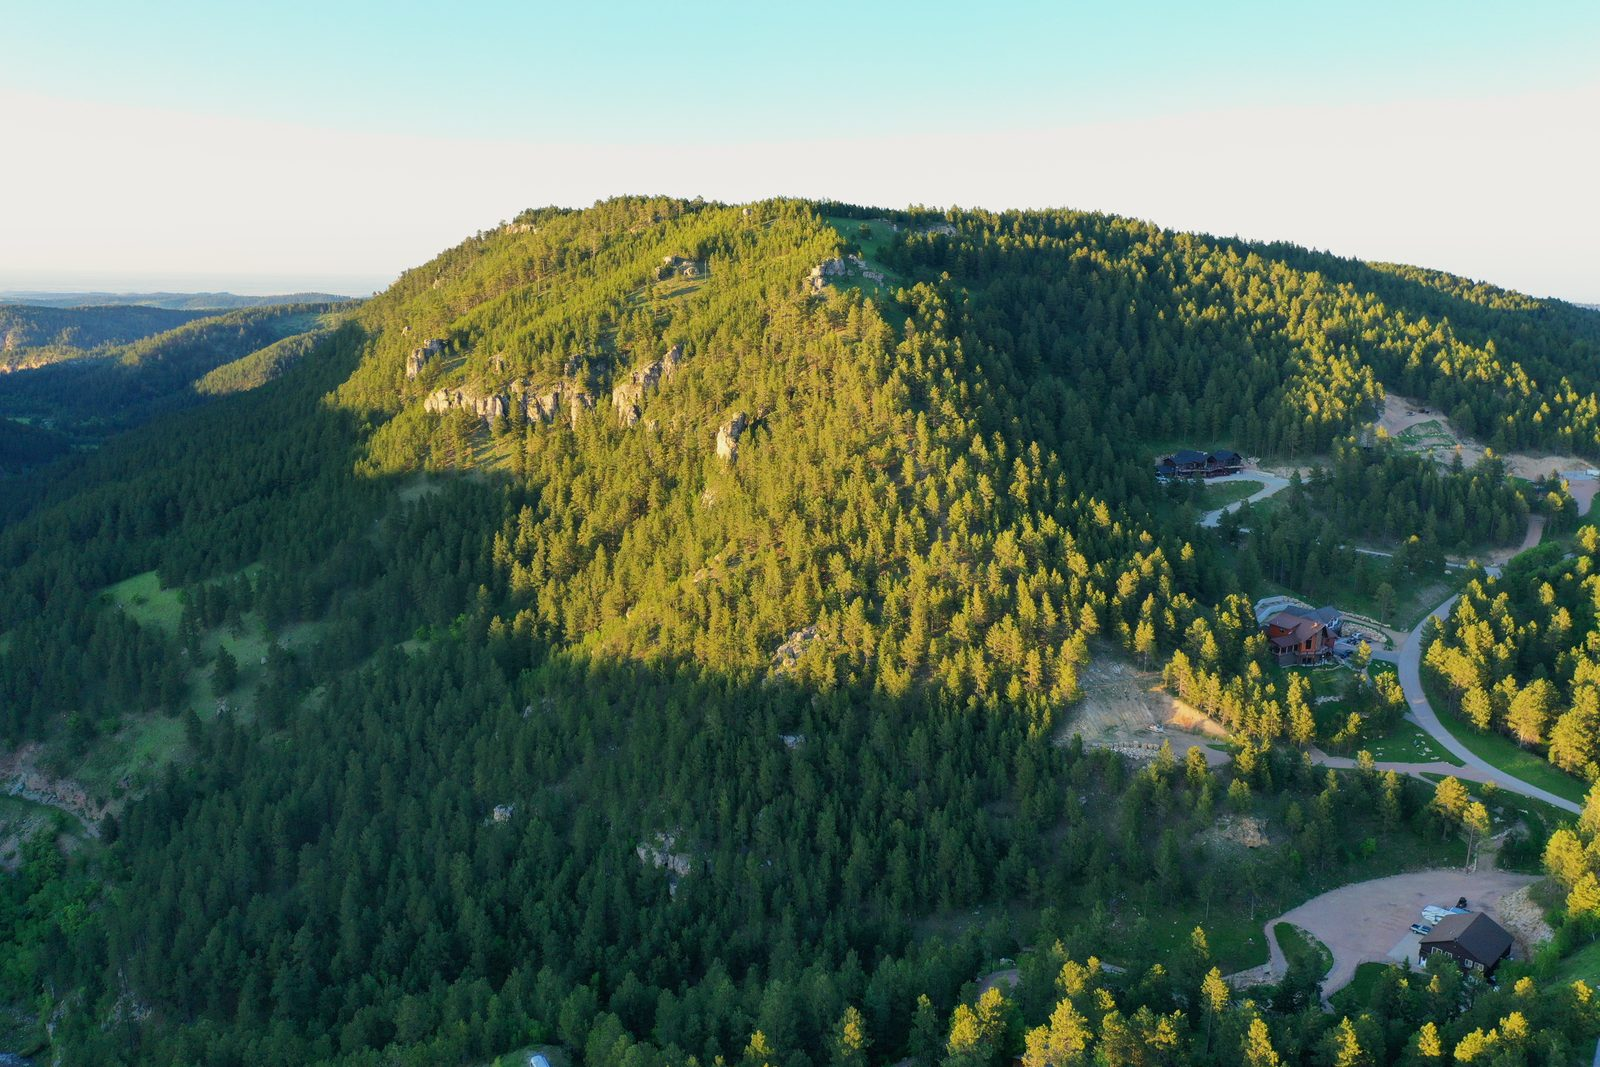
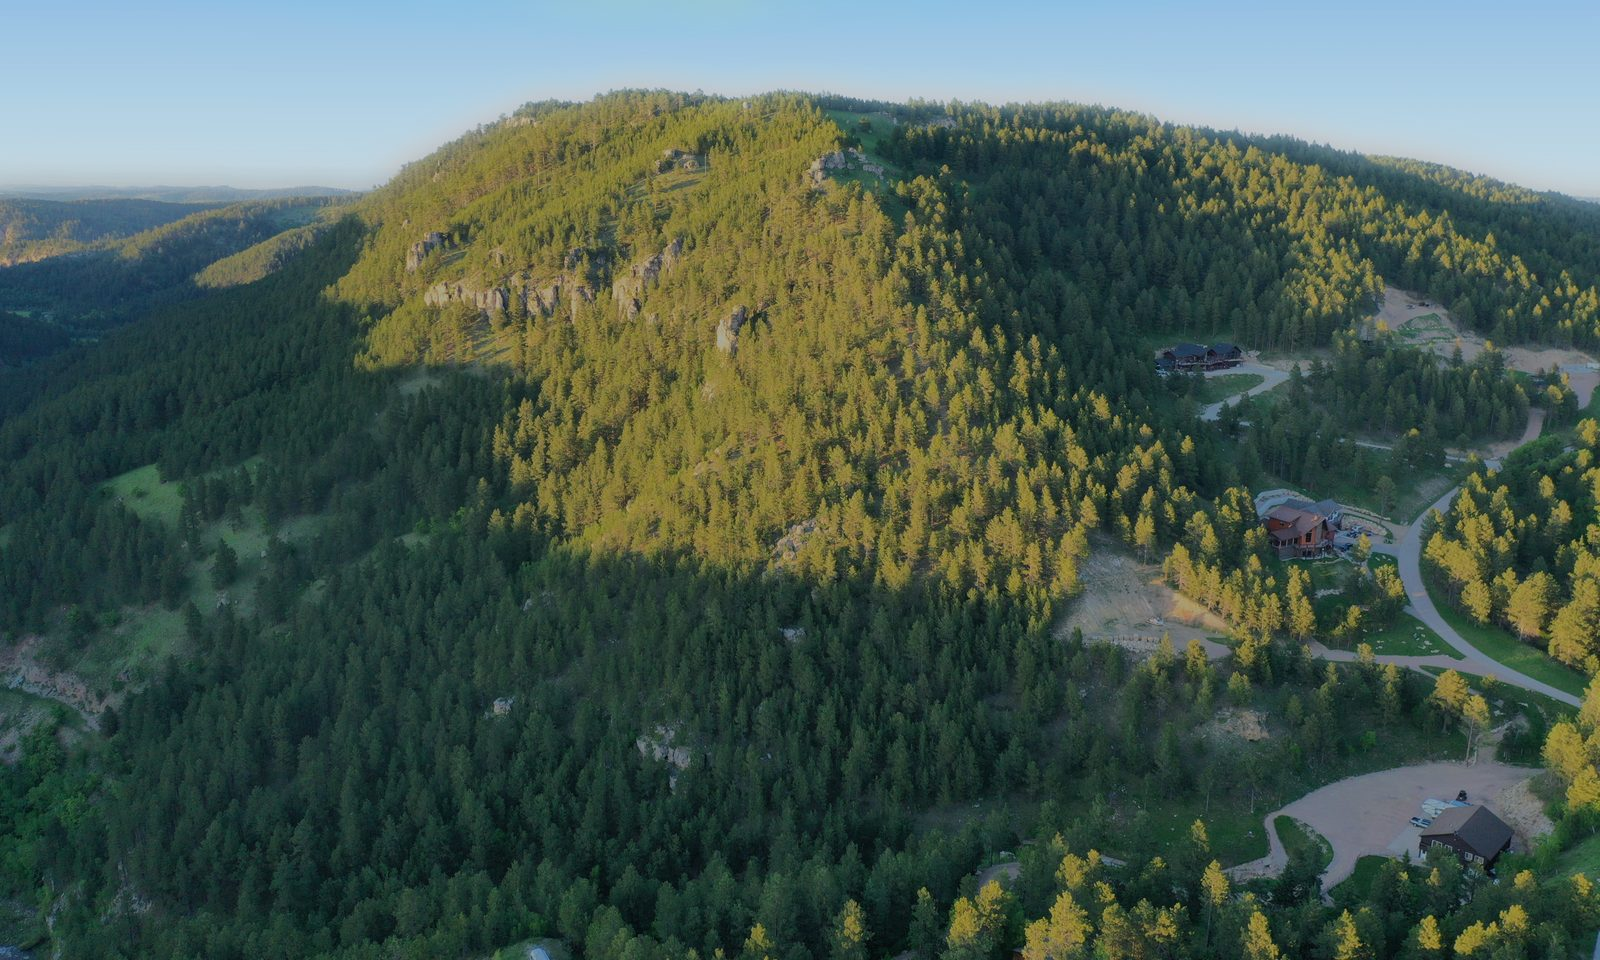
Recover blown-out sky on forest photo and reword freelance work
Claude-Session: https://claude.ai/code/session_01BnEJcwdcTBEZ4H9dbpizH3

diff --git a/project.html b/project.html
@@ -4,7 +4,7 @@
   <meta charset="UTF-8" />
   <meta name="viewport" content="width=device-width, initial-scale=1.0" />
   <title>Project: Aerial Photography | Jackson Konur</title>
-  <meta name="description" content="Jackson Konur's aerial photography business: drone footage licensed through Pond5 and Shutterstock and freelance real estate content." />
+  <meta name="description" content="Jackson Konur's aerial photography business: drone footage licensed through Pond5 and Shutterstock and freelance commercial work." />
   <link rel="icon" href="favicon.svg" type="image/svg+xml" />
   <link rel="preconnect" href="https://fonts.googleapis.com" />
   <link rel="preconnect" href="https://fonts.gstatic.com" crossorigin />
@@ -35,7 +35,7 @@
       <h1>Aerial Photography: turning drone footage into a business</h1>
       <p>
         I shoot and produce drone footage and license it to buyers through stock marketplaces. The same
-        skills led to freelance work creating aerial content for real estate listings.
+        skills led to freelance commercial work.
       </p>
       <div class="btn-row">
         <a href="index.html" class="btn btn-ghost">← Back to Home</a>
@@ -46,7 +46,7 @@
       <div class="card stat"><div class="num">80+</div><div class="label">Licenses sold</div></div>
       <div class="card stat"><div class="num">2</div><div class="label">Marketplaces: Pond5 &amp; Shutterstock</div></div>
       <div class="card stat"><div class="num">Travel</div><div class="label">&amp; tourism sites using my footage</div></div>
-      <div class="card stat"><div class="num">Freelance</div><div class="label">Real estate clients</div></div>
+      <div class="card stat"><div class="num">Freelance</div><div class="label">Commercial work</div></div>
     </div>
 
     <section aria-labelledby="gallery-h">
@@ -56,7 +56,7 @@
         <figure class="wide"><img src="images/coastline.jpg" alt="Waves breaking over granite boulders along a rocky coastline" loading="lazy" width="1600" height="1067" /><figcaption>Rocky coastline</figcaption></figure>
         <figure><img src="images/sunset-ridge.jpg" alt="Sun setting behind layered mountain ridges" loading="lazy" width="1600" height="1067" /><figcaption>Sunset over the ridges</figcaption></figure>
         <figure><img src="images/harbor.jpg" alt="Red work boat moored in a harbor below wooded hills" loading="lazy" width="1600" height="900" /><figcaption>Harbor</figcaption></figure>
-        <figure><img src="images/forest.jpg" alt="Forested hillside with homes and winding roads in late light" loading="lazy" width="1600" height="1067" /><figcaption>Forested hillside</figcaption></figure>
+        <figure><img src="images/forest.jpg" alt="Forested hillside with homes and winding roads in late light" loading="lazy" width="1600" height="960" /><figcaption>Forested hillside</figcaption></figure>
         <figure class="wide"><img src="images/stadium.jpg" alt="High school football stadium and track seen from above" loading="lazy" width="1600" height="900" /><figcaption>Stadium flyover</figcaption></figure>
         <figure class="wide"><img src="images/sunset-bay.jpg" alt="Sunset over a calm bay with a marina and dark headland" loading="lazy" width="1600" height="900" /><figcaption>Sunset over the bay</figcaption></figure>
       </div>
@@ -69,7 +69,7 @@
         <li><strong>Produced it.</strong> Edited the raw footage into clips ready for buyers.</li>
         <li><strong>Sold it.</strong> Listed the content on Pond5 and Shutterstock and sold more than 80 licenses.</li>
         <li><strong>Found repeat use.</strong> My footage has been licensed for use on many travel and tourism websites.</li>
-        <li><strong>Took on clients.</strong> Created aerial content for real estate as a freelance contractor.</li>
+        <li><strong>Took on clients.</strong> Shot commercial aerial content as a freelance contractor.</li>
       </ol>
 
       <h2>What it shows</h2>
